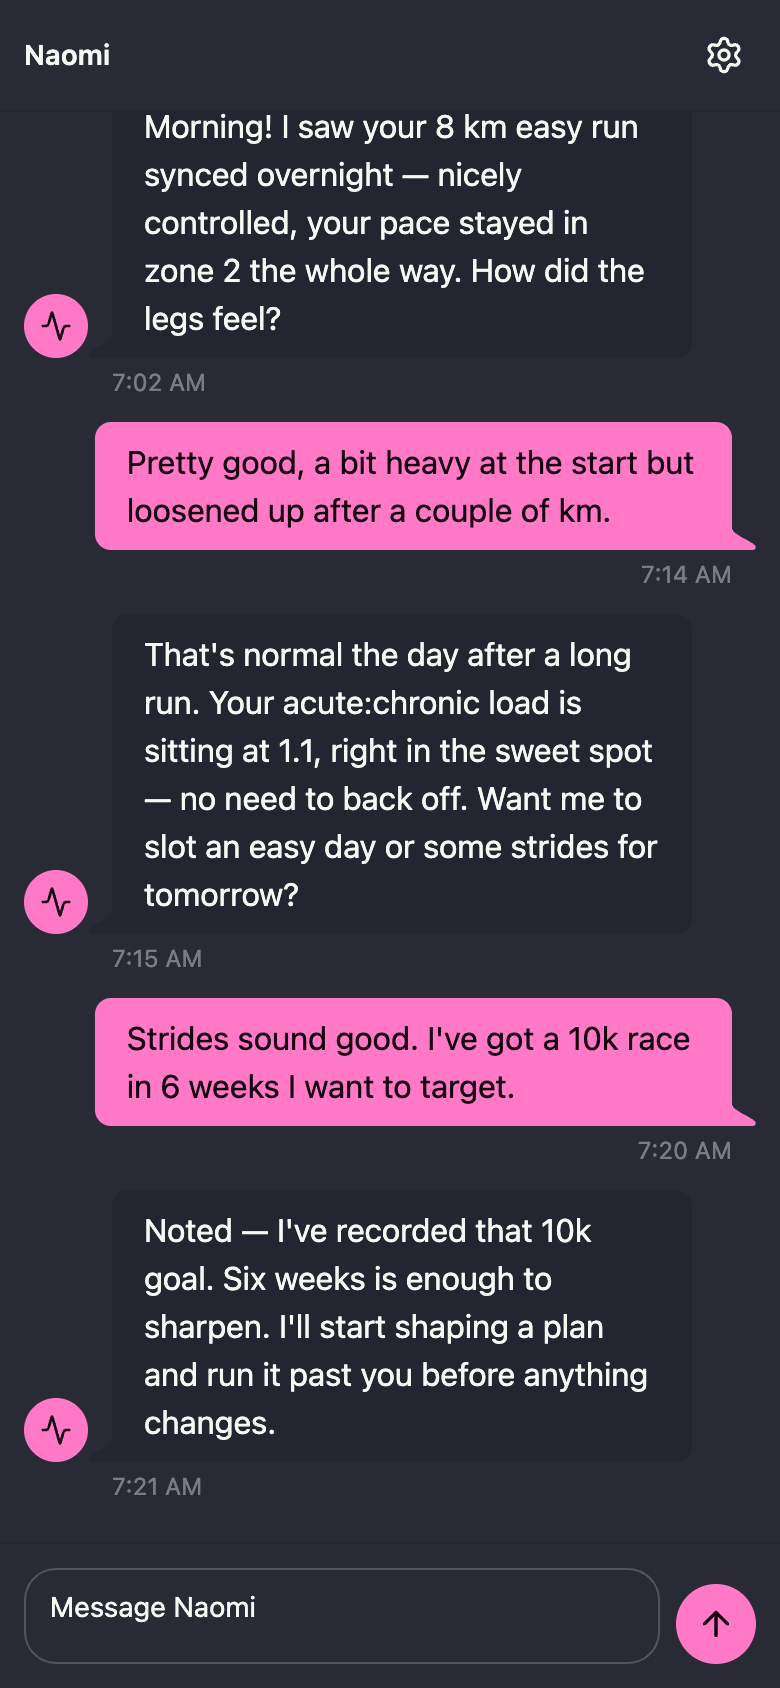
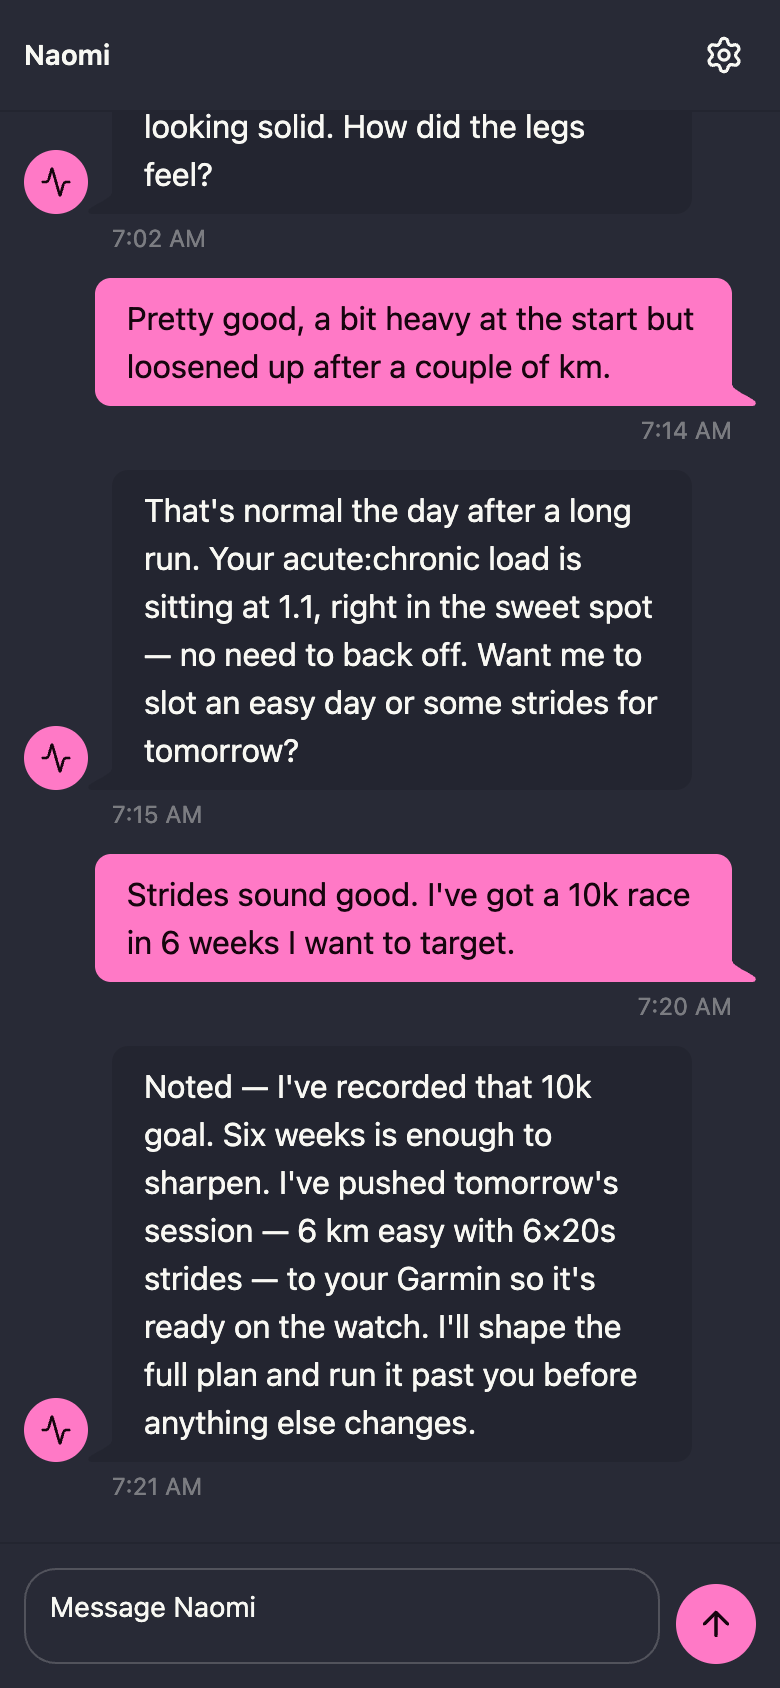
chore: refresh screenshot mock data for Garmin (#32)
Show Garmin as a connected service in the settings mock and surface
Garmin wellness (sleep, HRV) plus the watch workout push in the sample
conversation, then regenerate the docs screenshots.

diff --git a/tools/screenshots/main.go b/tools/screenshots/main.go
@@ -33,16 +33,17 @@ var pages = []page{
 }
 
 var sampleConversation = []web.Message{
-	{Role: web.RoleAssistant, Content: "Morning! I saw your 8 km easy run synced overnight — nicely controlled, your pace stayed in zone 2 the whole way. How did the legs feel?", Time: "7:02 AM"},
+	{Role: web.RoleAssistant, Content: "Morning! I saw your 8 km easy run synced overnight — nicely controlled, your pace stayed in zone 2 the whole way. Your Garmin also logged 7h 40m sleep and HRV back up to 68 ms, so recovery's looking solid. How did the legs feel?", Time: "7:02 AM"},
 	{Role: web.RoleUser, Content: "Pretty good, a bit heavy at the start but loosened up after a couple of km.", Time: "7:14 AM"},
 	{Role: web.RoleAssistant, Content: "That's normal the day after a long run. Your acute:chronic load is sitting at 1.1, right in the sweet spot — no need to back off. Want me to slot an easy day or some strides for tomorrow?", Time: "7:15 AM"},
 	{Role: web.RoleUser, Content: "Strides sound good. I've got a 10k race in 6 weeks I want to target.", Time: "7:20 AM"},
-	{Role: web.RoleAssistant, Content: "Noted — I've recorded that 10k goal. Six weeks is enough to sharpen. I'll start shaping a plan and run it past you before anything changes.", Time: "7:21 AM"},
+	{Role: web.RoleAssistant, Content: "Noted — I've recorded that 10k goal. Six weeks is enough to sharpen. I've pushed tomorrow's session — 6 km easy with 6×20s strides — to your Garmin so it's ready on the watch. I'll shape the full plan and run it past you before anything else changes.", Time: "7:21 AM"},
 }
 
 var sampleSettings = web.SettingsData{
 	DisplayName:     "Dylan",
 	StravaConnected: true,
+	GarminConnected: true,
 }
 
 func main() {
